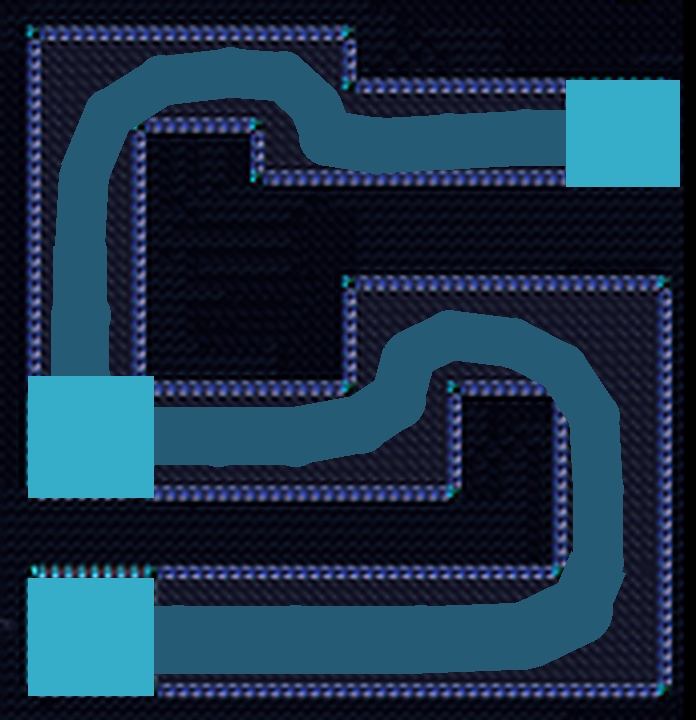
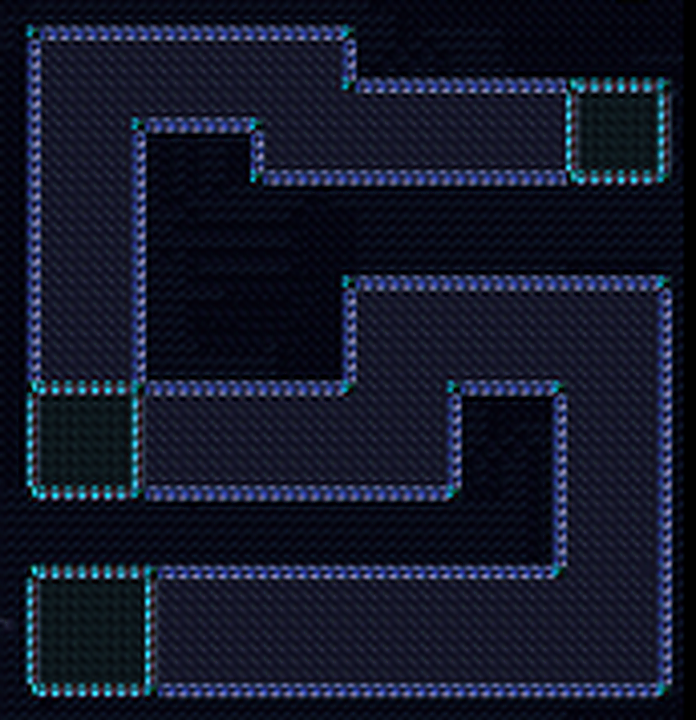
Add files via upload

Changed region(s): [[0.0302, 0.0611, 0.9957, 0.9778]]

diff --git a/game.js b/game.js
@@ -23,7 +23,7 @@
   const STUN_MS = 2000;
   const INV_MS = 1000;
   const CAMERA_ZOOM = 3.00;
-  const BUILD_ID = "v3.35";
+  const BUILD_ID = "v3.4";
 window.__OBSERVER_FM_BUILD__ = BUILD_ID;
 
   const unitSprites={
@@ -38,20 +38,6 @@ window.__OBSERVER_FM_BUILD__ = BUILD_ID;
   unitSprites[3].A.src="wraith_a.png";    unitSprites[3].B.src="wraith_b.png";    unitSprites[3].C.src="wraith_c.png";   unitSprites[3].D.src="wraith_d.png";
   unitSprites[4].A.src="mutalisk_a.png";  unitSprites[4].B.src="mutalisk_b.png";  unitSprites[4].C.src="mutalisk_c.png";   unitSprites[4].D.src="mutalisk_d.png";
   unitSprites[5].A.src="queen_a.png";     unitSprites[5].B.src="queen_b.png";     unitSprites[5].C.src="queen_c.png";   unitSprites[5].D.src="queen_d.png";
-  const unitGraySprites={
-    1:{A:new Image(),B:new Image(),C:new Image(),D:new Image()},
-    2:{A:new Image(),B:new Image(),C:new Image(),D:new Image()},
-    3:{A:new Image(),B:new Image(),C:new Image(),D:new Image()},
-    4:{A:new Image(),B:new Image(),C:new Image(),D:new Image()},
-    5:{A:new Image(),B:new Image(),C:new Image(),D:new Image()}
-  };
-  unitGraySprites[1].A.src="scourge_a_gray.png"; unitGraySprites[1].B.src="scourge_b_gray.png"; unitGraySprites[1].C.src="scourge_c_gray.png"; unitGraySprites[1].D.src="scourge_d_gray.png";
-  unitGraySprites[2].A.src="scout_a_gray.png"; unitGraySprites[2].B.src="scout_b_gray.png"; unitGraySprites[2].C.src="scout_c_gray.png"; unitGraySprites[2].D.src="scout_d_gray.png";
-  unitGraySprites[3].A.src="wraith_a_gray.png"; unitGraySprites[3].B.src="wraith_b_gray.png"; unitGraySprites[3].C.src="wraith_c_gray.png"; unitGraySprites[3].D.src="wraith_d_gray.png";
-  unitGraySprites[4].A.src="mutalisk_a_gray.png"; unitGraySprites[4].B.src="mutalisk_b_gray.png"; unitGraySprites[4].C.src="mutalisk_c_gray.png"; unitGraySprites[4].D.src="mutalisk_d_gray.png";
-  unitGraySprites[5].A.src="queen_a_gray.png"; unitGraySprites[5].B.src="queen_b_gray.png"; unitGraySprites[5].C.src="queen_c_gray.png"; unitGraySprites[5].D.src="queen_d_gray.png";
-
-
   // Engine safeguards. Visual sprite size is independent of collision radius.
   const PLAYER_HIT_RADIUS = 0.38;     // unchanged collision feel
   const PLAYER_VISUAL_SCALE = 0.69;   // v14 visual size
@@ -381,7 +367,7 @@ window.__OBSERVER_FM_BUILD__ = BUILD_ID;
         ) * 1.464395625,
         desiredOffset:(i-5.5)*0.40,
         stunUntil:0, invUntil:0, collisionLockUntil:0,
-        hitFxUntil:0, hitGrayUntil:0, collisionGrayUntil:0, grayVerifyLoggedUntil:0, visualAngle:0, prevX:route[0][0], prevY:route[0][1], simPrevX:20.5, simPrevY:154.8 + (i-5.5)*0.40,
+        hitFxUntil:0, visualAngle:0, prevX:route[0][0], prevY:route[0][1], simPrevX:20.5, simPrevY:154.8 + (i-5.5)*0.40,
         sectorIndex:0, sectorStartMs:0, sectorTimes:[],
         humanMode:0, humanModeUntil:0, humanPhase:Math.random()*Math.PI*2,
         decisionErrorUntil:0, textWidth:0,
@@ -621,7 +607,6 @@ window.__OBSERVER_FM_BUILD__ = BUILD_ID;
     replaySpeed=1; replayLastTs=0; replayFocusId=-1;
     replayArchive={}; highlightArchive={}; photoFinishArchive={}; replaySelectedRound=1;
 
-    collisionVerifyLog.length=0;
     createTeams();
     initTournament();
     resetRound();
@@ -2670,7 +2655,6 @@ window.__OBSERVER_FM_BUILD__ = BUILD_ID;
       return;
     }
     if(p.stunUntil){
-      logCollisionVerify("정지종료",p,now);
       p.stunUntil=0;
       p.invUntil=now+INV_MS;
       p.lastAdvanceAt=now;
@@ -3035,12 +3019,9 @@ targetOff=clampSpecialRoadOffset(si,targetOff,p);
         if(playerObserverHit(p,o)){
           p.hits++;
           p.hitFxUntil=now+240;
-          p.hitGrayUntil=now+STUN_MS;
-          p.collisionGrayUntil=now+STUN_MS;
           p.stunUntil=now+STUN_MS;
           p.collisionLockUntil=now+STUN_MS+INV_MS;
           p.match.collisions++;
-          logCollisionVerify("충돌",p,now,{observerId:o.id});
           p.match.deathPoints.push({
             round:currentRound,
             t:Math.max(0,now-raceStart),
@@ -3454,8 +3435,7 @@ targetOff=clampSpecialRoadOffset(si,targetOff,p);
     let collisions=0,finishes=0,totalTime=0;
     for(const p of players){collisions+=p.match.collisions||0;if(p.done&&p.finishTime!=null){finishes++;totalTime+=p.finishTime;}}
     const avg=finishes?formatTime(totalTime/finishes):"--";
-    const cv=collisionVerifySnapshot();
-    el.innerHTML=`<b>경기 진단</b><br>FPS ${diagFps.toFixed(0)} · frame ${diagFrameMs.toFixed(1)}ms · max ${diagMaxFrameMs.toFixed(1)}ms · 자동보호 ${fpsProtectLevel}<br>옵저버 ${observers.length} · 충돌 ${collisions} · 추월 ${raceTotalOvertakes}<br>회색검증 ${cv.ok?"정상":"오류"} · 현재정지 ${cv.active.length}명 · 완주 ${finishes}/12 · 평균 ${avg}`;
+    el.innerHTML=`<b>경기 진단</b><br>FPS ${diagFps.toFixed(0)} · frame ${diagFrameMs.toFixed(1)}ms · max ${diagMaxFrameMs.toFixed(1)}ms · 자동보호 ${fpsProtectLevel}<br>옵저버 ${observers.length} · 충돌 ${collisions} · 추월 ${raceTotalOvertakes}<br>완주 ${finishes}/12 · 평균 ${avg}`;
   }
 
   const SIM_STEP_MS = 1000/50;
@@ -3463,28 +3443,6 @@ targetOff=clampSpecialRoadOffset(si,targetOff,p);
   let simClock=0;
   let simTickCounter=0;
   let simAccumulator=0;
-  const COLLISION_VERIFY_MAX=80;
-  const collisionVerifyLog=[];
-  function logCollisionVerify(type,p,now,extra={}){
-    collisionVerifyLog.push({
-      type,player:p?.name||"",playerIndex:p?.index??-1,round:currentRound,
-      t:raceStart?Math.max(0,now-raceStart):0,
-      stunUntil:p?.stunUntil||0,
-      grayUntil:Math.max(p?.hitGrayUntil||0,p?.collisionGrayUntil||0),
-      ...extra
-    });
-    if(collisionVerifyLog.length>COLLISION_VERIFY_MAX) collisionVerifyLog.shift();
-  }
-  function collisionVerifySnapshot(){
-    const now=gameNow();
-    const active=players.filter(p=>(p.stunUntil||0)>now).map(p=>({
-      name:p.name,
-      stunLeft:Math.max(0,p.stunUntil-now),
-      grayLeft:Math.max(0,Math.max(p.hitGrayUntil||0,p.collisionGrayUntil||0)-now)
-    }));
-    const bad=active.filter(x=>x.grayLeft<=0);
-    return {ok:bad.length===0,active,bad,events:collisionVerifyLog.slice(-20)};
-  }
   function gameNow(){
     return (running && raceStart && simClock) ? simClock : performance.now();
   }
@@ -3828,39 +3786,20 @@ targetOff=clampSpecialRoadOffset(si,targetOff,p);
       ctx.globalAlpha=1;
     }
 
-    const grayUntil=Math.max(p.hitGrayUntil||0,p.collisionGrayUntil||0,p.stunUntil||0);
-    const collisionGray=(p.stunUntil||0)>now || grayUntil>now;
-    if(collisionGray && (p.grayVerifyLoggedUntil||0)<(p.stunUntil||0)){
-      p.grayVerifyLoggedUntil=p.stunUntil||now;
-      logCollisionVerify("회색렌더",p,now,{grayAssetReady:!!(unitGraySprites[currentRound]?.[p.team]?.complete)});
-    }
-    const normalSprite=unitSprites[currentRound]?.[p.team];
-    const graySprite=unitGraySprites[currentRound]?.[p.team];
-    const sprite=collisionGray && graySprite?.complete && graySprite.naturalWidth ? graySprite : normalSprite;
+    const sprite=unitSprites[currentRound]?.[p.team];
     if(sprite && sprite.complete && sprite.naturalWidth){
       const size=r*2.65;
       ctx.save();
       ctx.rotate(p.visualAngle);
-      // v3.31 double guarantee: even if a dedicated gray asset is late/missing,
-      // collision state forces grayscale on whichever sprite is actually drawable.
-      ctx.filter=collisionGray ? "grayscale(100%) saturate(0%) brightness(38%) contrast(135%)" : "none";
-      ctx.shadowColor=collisionGray ? "transparent" :
-        (p.team==="A" ? "rgba(255,77,77,.45)" : p.team==="B" ? "rgba(77,141,255,.45)" : p.team==="C" ? "rgba(255,216,77,.45)" : "rgba(57,212,106,.45)");
-      ctx.shadowBlur=collisionGray?0:Math.max(2,r*.18);
+      ctx.shadowColor=p.team==="A" ? "rgba(255,77,77,.45)" :
+        p.team==="B" ? "rgba(77,141,255,.45)" :
+        p.team==="C" ? "rgba(255,216,77,.45)" : "rgba(57,212,106,.45)";
+      ctx.shadowBlur=Math.max(2,r*.18);
       ctx.drawImage(sprite,-size/2,-size/2,size,size);
-      ctx.filter="none";
-      if(collisionGray){
-        ctx.globalCompositeOperation="source-atop";ctx.globalAlpha=.72;ctx.fillStyle="#3b3f43";
-        ctx.fillRect(-size/2,-size/2,size,size);ctx.globalAlpha=1;ctx.globalCompositeOperation="source-over";
-      }
       ctx.restore();
     }else{
-      const grayMix=(Math.max(p.hitGrayUntil||0,p.collisionGrayUntil||0,p.stunUntil||0)>now)?1:0;
-      if(grayMix>0){
-        const base=p.team==="A"?[255,77,77]:p.team==="B"?[77,141,255]:p.team==="C"?[255,216,77]:[57,212,106], g=52;
-        const rr=Math.round(base[0]*(1-grayMix)+g*grayMix),gg=Math.round(base[1]*(1-grayMix)+g*grayMix),bb=Math.round(base[2]*(1-grayMix)+g*grayMix);
-        ctx.fillStyle=`rgb(${rr},${gg},${bb})`;
-      }else ctx.fillStyle=teamColor(p.team);
+      // Sprite-load fallback stays team-colored; collision never changes the icon.
+      ctx.fillStyle=teamColor(p.team);
       ctx.strokeStyle="#07111a";
       ctx.lineWidth=3;
       ctx.beginPath();ctx.arc(0,0,r,0,Math.PI*2);ctx.fill();ctx.stroke();
@@ -5388,7 +5327,7 @@ targetOff=clampSpecialRoadOffset(si,targetOff,p);
     if(e.target.id==="playerModal") e.currentTarget.classList.add("hidden");
   });
 
-  function v332SelfAudit(){
+  function v34SelfAudit(){
     const issues=[];
     if(names.length!==12||new Set(names).size!==12)issues.push("선수12");
     if(OBSERVER_COUNT!==400)issues.push("옵저버400");
@@ -5397,12 +5336,12 @@ targetOff=clampSpecialRoadOffset(si,targetOff,p);
     if(STUN_MS!==2000)issues.push("정지2초");
     if(ROUND_POINTS.length!==12)issues.push("점수12");
     if(!["HongKey","TaeHyeon","DVA","LiveCam"].every(n=>names.includes(n)))issues.push("추가선수");
-    if(!unitSprites[1]?.D||!unitSprites[5]?.D||!unitGraySprites[1]?.D||!unitGraySprites[5]?.D)issues.push("4팀스프라이트");
+    if(!unitSprites[1]?.D||!unitSprites[5]?.D)issues.push("4팀스프라이트");
     return {ok:!issues.length,issues,build:BUILD_ID};
   }
 
   window.ObserverFMRaceEngine={
-    version:BUILD_ID,selfAudit:v332SelfAudit,collisionVerify:collisionVerifySnapshot,
+    version:BUILD_ID,selfAudit:v34SelfAudit,
     getPerformance:()=>({fps:diagFps,frameMs:diagFrameMs,maxFrameMs:diagMaxFrameMs,fpsProtectLevel}),
     schema:"observer-fm-race-result@1",
     getRules:()=>clonePlain(engineCoreRules()),

diff --git a/index.html b/index.html
@@ -13,7 +13,7 @@
   <header class="topbar">
     <div>
       <h1>Observer Avoid FM</h1>
-      <p>v3.35 · OBS 400 · HIT 0.38</p>
+      <p>v3.4 · OBS 400 · HIT 0.38</p>
     </div>
     
     <div class="controls">
@@ -28,7 +28,7 @@
     <section class="broadcast">
       <div class="livebar">
         <span class="live-dot"></span><b>LIVE</b>
-        <span id="cameraLabel">v3.35 · OBS 400 · HIT 0.38</span>
+        <span id="cameraLabel">v3.4 · OBS 400 · HIT 0.38</span>
         <button id="focusModeBtn" class="focus-mode-btn" type="button">게임 전체화면</button>
         <button id="pauseBtn" class="pause-btn" type="button">⏸ 일시정지</button>
         <span id="clock">00:00.0</span>
@@ -102,7 +102,7 @@
         </div>
       </section>
 
-      <div class="qa-final-strip">v3.35 · OBS 400 · HIT 0.38</div>
+      <div class="qa-final-strip">v3.4 · OBS 400 · HIT 0.38</div>
       <div class="highlight-title">선수 경기 평점</div>
       <div id="matchRatings" class="match-ratings"></div>
       <div class="highlight-title">경기 분석 리포트</div>
@@ -140,7 +140,7 @@
   <div id="balancePanel" class="overlay hidden">
     <div class="modalCard balanceCard">
       <button id="balanceClose" class="closeBtn">×</button>
-      <h2>v3.35 · 자동 밸런스 테스트</h2>
+      <h2>v3.4 · 자동 밸런스 테스트</h2>
       <p class="balance-note"><b>실전 누적</b>은 실제 레이스 엔진에서 끝난 라운드를 저장합니다. 아래 빠른 반복 테스트는 밸런스 방향을 빠르게 확인하는 근사 시뮬레이션입니다.</p>
       <div class="balance-section-head"><b>실전 경기 누적 대시보드</b><button id="liveBalanceReset">실전 기록 초기화</button></div>
       <div id="liveBalanceSummary" class="balance-summary"></div>
@@ -172,7 +172,7 @@
   <div id="replayPanel" class="overlay hidden">
     <div class="modalCard replayCard">
       <button id="replayClose" class="closeBtn">×</button>
-      <h2>v3.35 · 경기 리플레이</h2>
+      <h2>v3.4 · 경기 리플레이</h2>
       <div id="replayRounds" class="replay-rounds"></div>
       <canvas id="replayCanvas" width="771" height="534"></canvas>
       <div class="highlight-title">자동 하이라이트</div>
@@ -188,6 +188,6 @@
     </div>
   </div>
 
-  <script src="game.js?v=33501"></script>
+  <script src="game.js?v=34001"></script>
 </body>
 </html>
